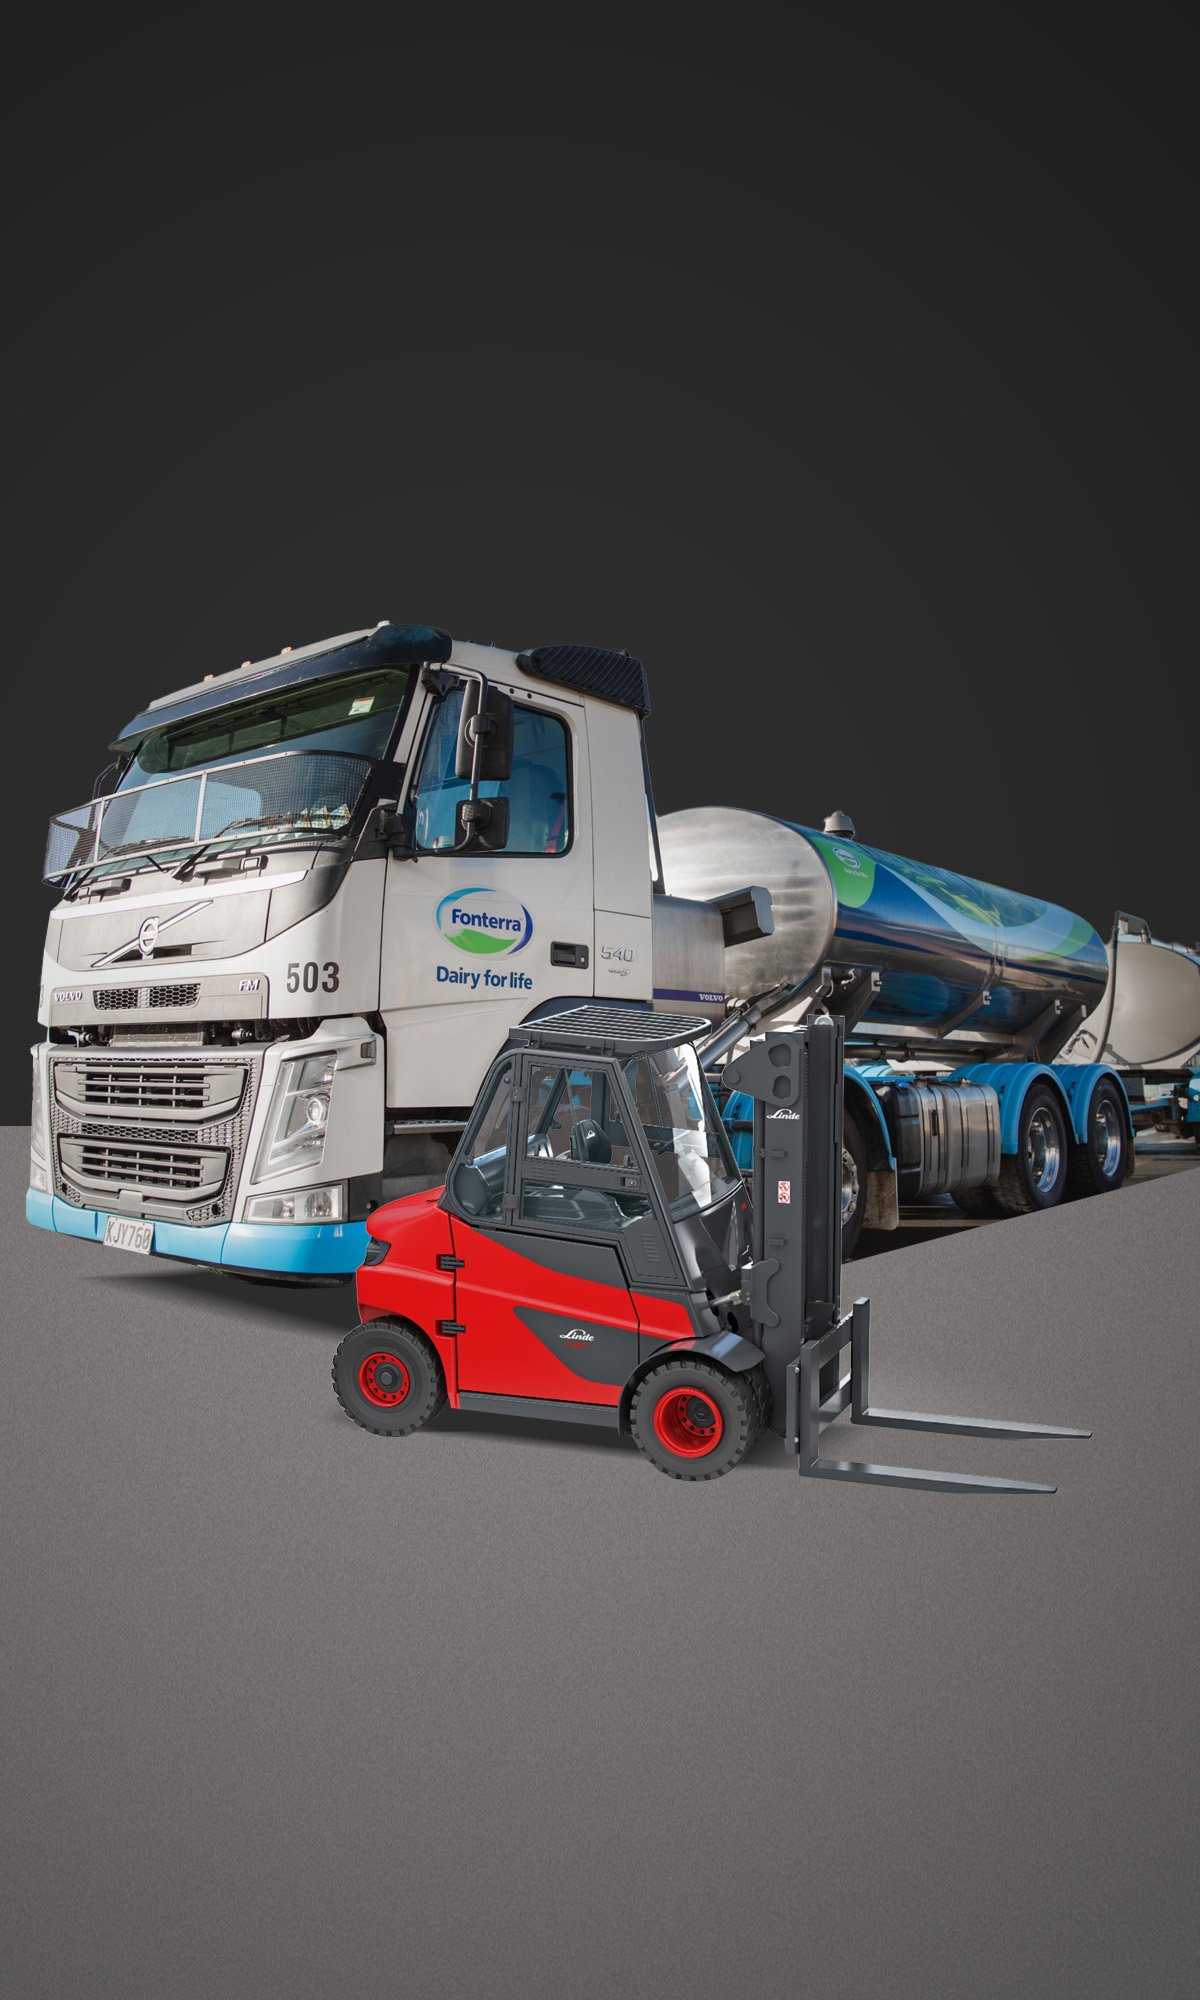
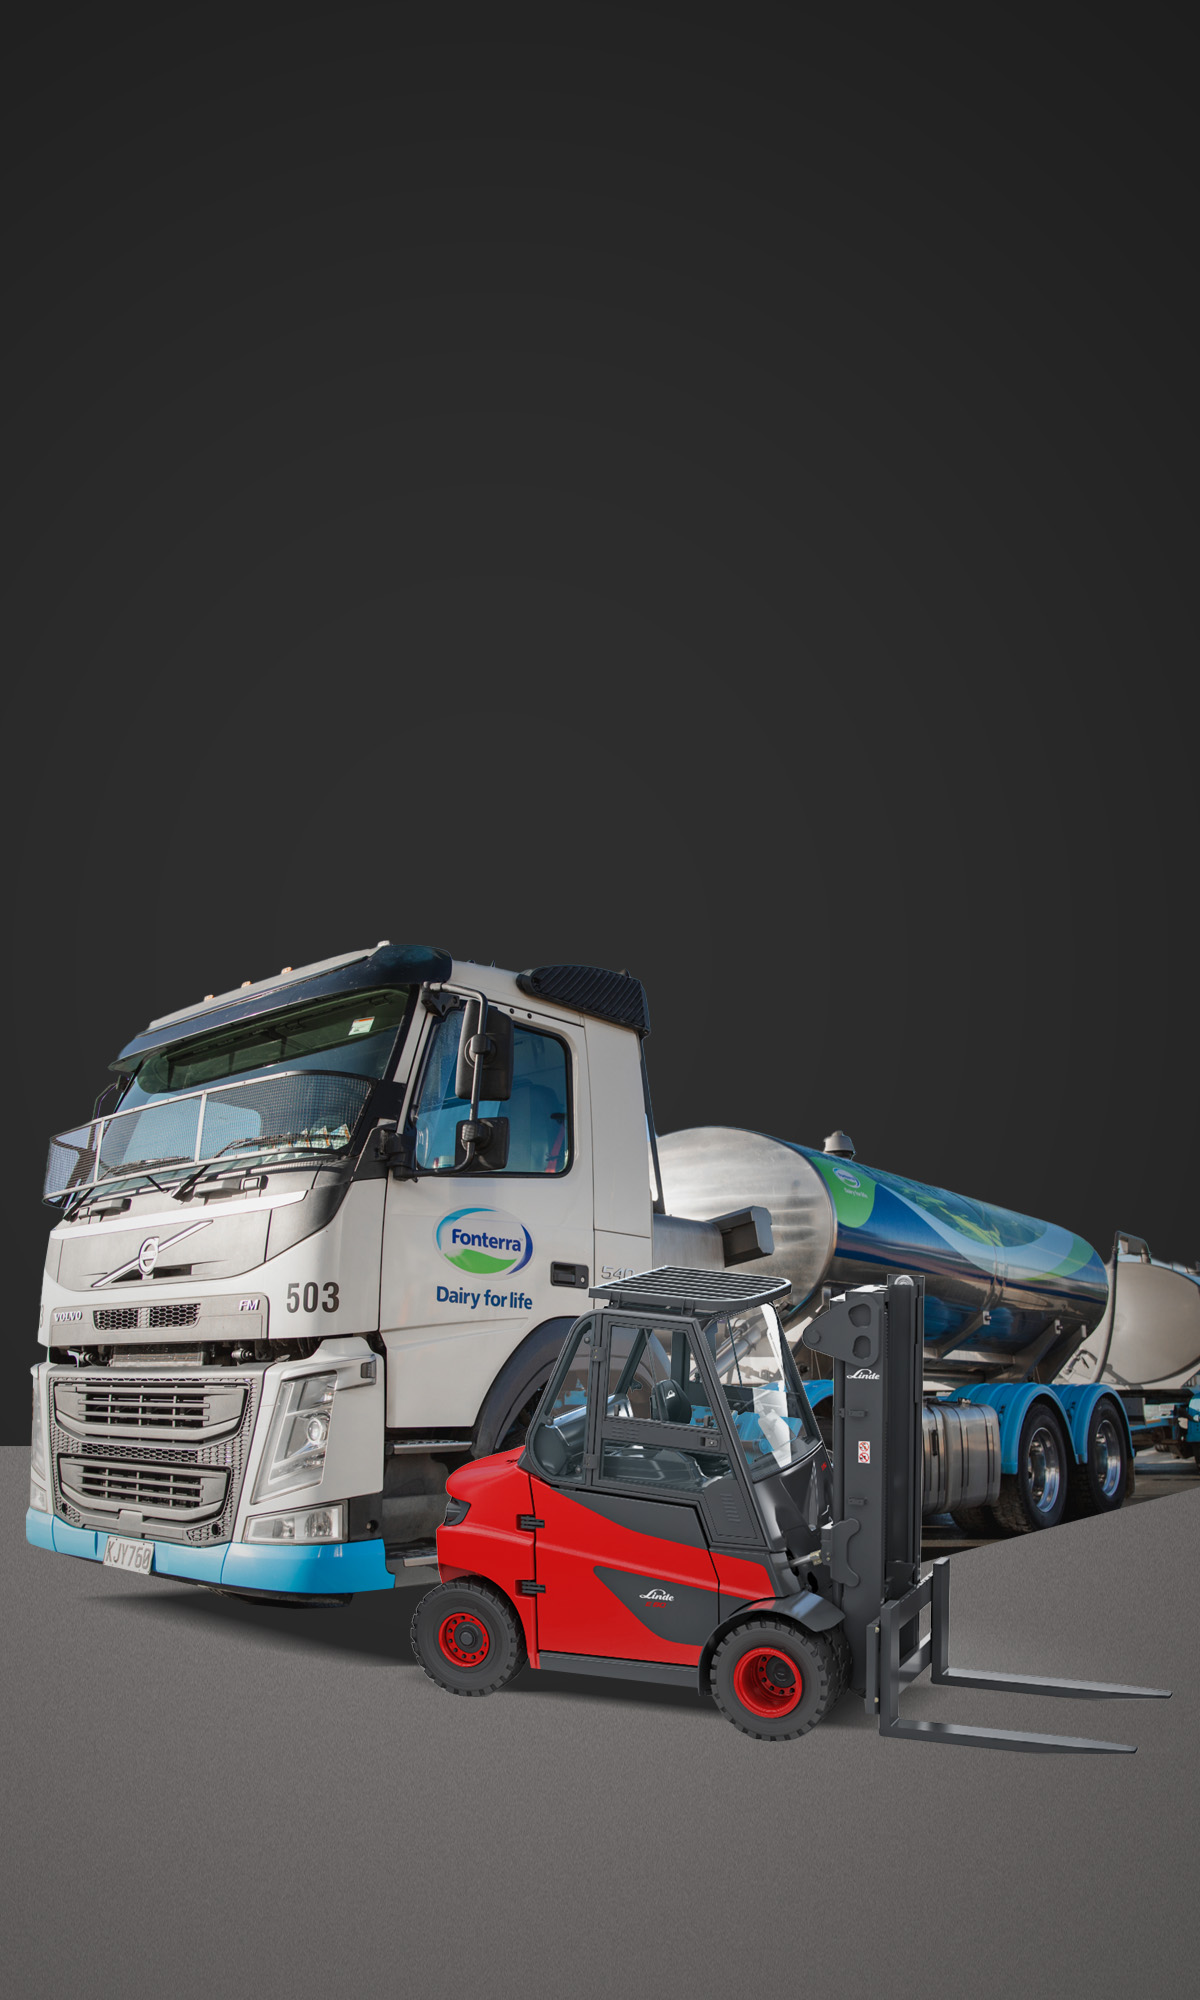
last tweak

diff --git a/fonterra.html b/fonterra.html
@@ -66,8 +66,8 @@
     
     
     <div class="tdxintroContain dark hideMobile" style="background-image: url(/images/2024/bg-mob.jpg); background-size: cover; background-position: center;">
-        <div class="tdxintroInner" style="background-color: rgba(0,0,0,0.25);
-            width:100vw; height: 100vh; display: flex; align-items: center; justify-content: space-between; flex-direction: column; text-align: center; padding-top: 7vh; padding-bottom: 7vh;">
+        <div class="tdxintroInner" style="background-color: rgba(0,0,0,0.15);
+            width:100vw; height: 100vh; display: flex; align-items: center; justify-content: flex-start; flex-direction: column; text-align: center; padding-top: 7vh; padding-bottom: 7vh;">
            
                  
                     <h1 class="" style="font-size: 4vh; line-height: 130%;">Building a great partnership together.<br><span class="brandColor">He tangata, he tangata he tangata.</span></h1>
